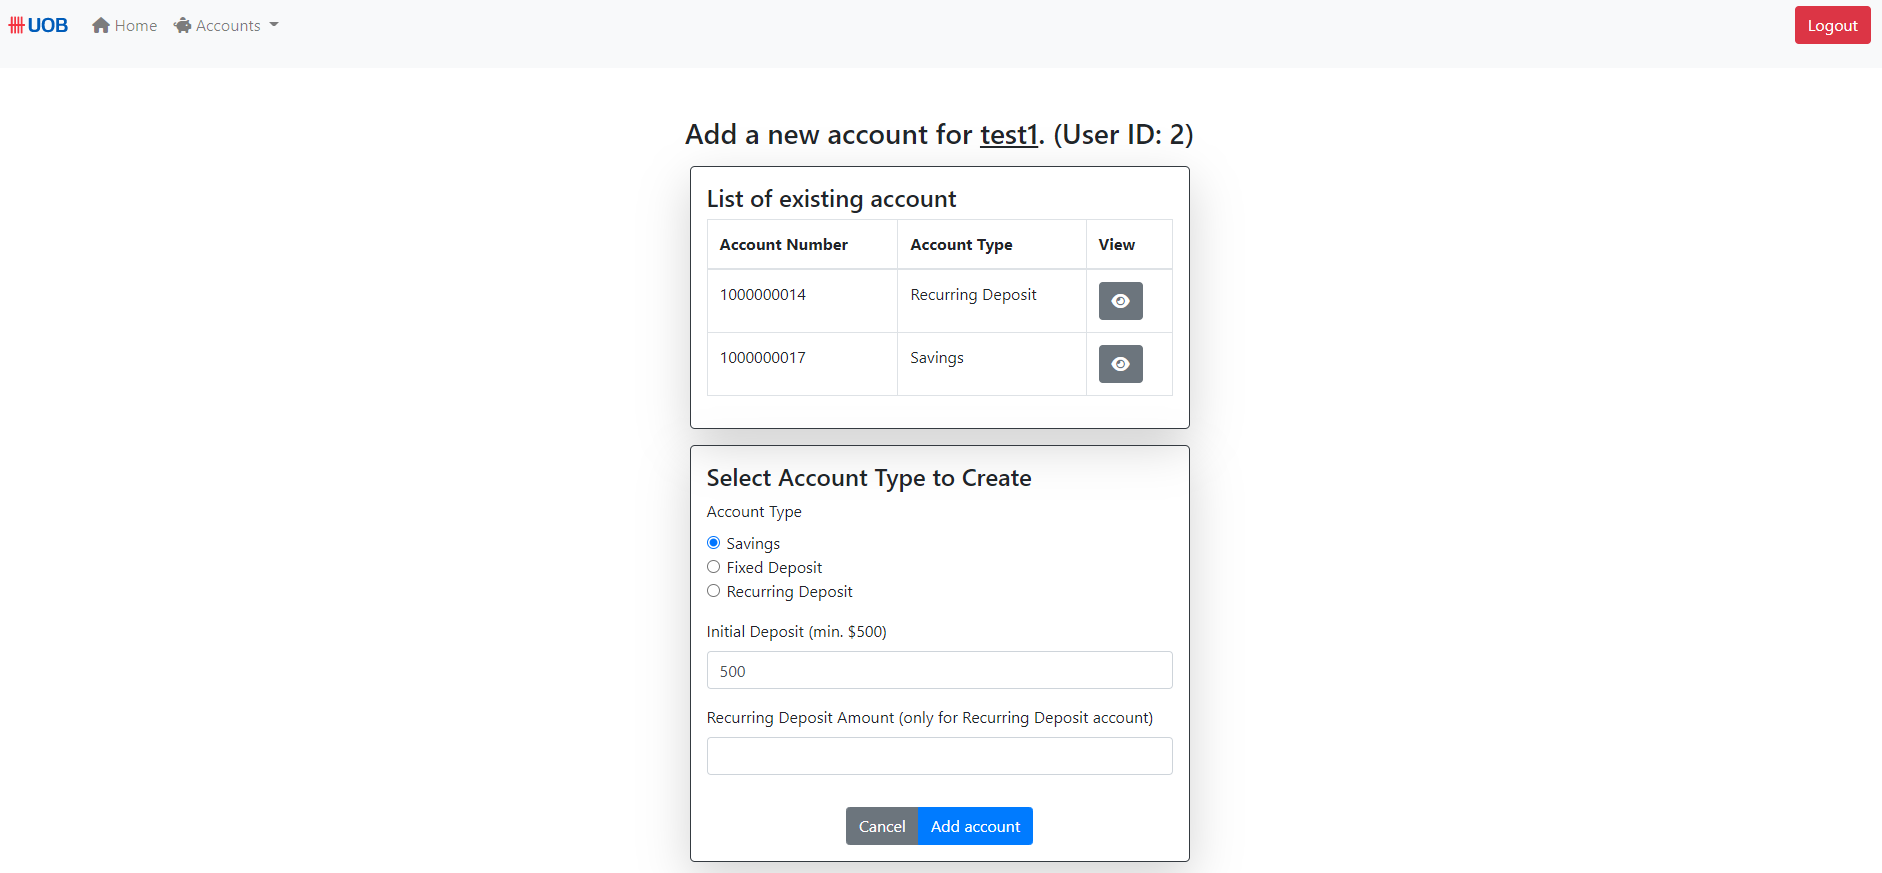
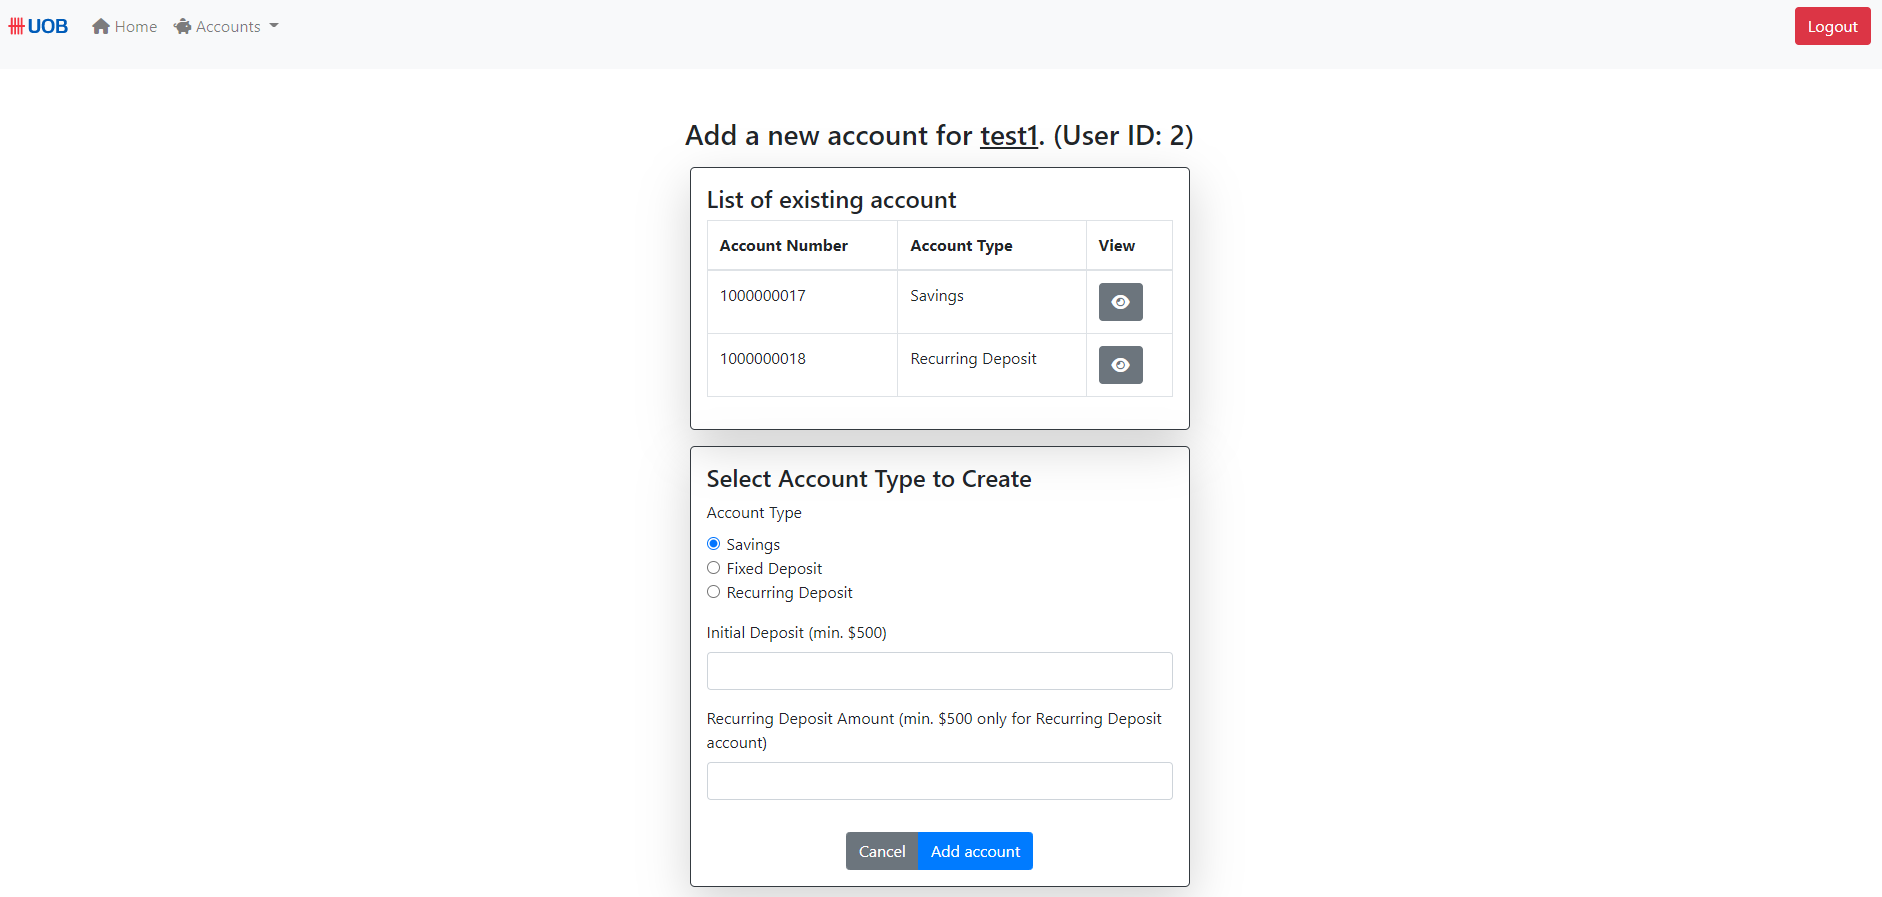
Updated illustration

diff --git a/src/main/resources/templates/addAccount.html b/src/main/resources/templates/addAccount.html
@@ -63,7 +63,7 @@
 					<p class="alert alert-danger" role="alert"
 						th:if="${msg}=='recurringError'">Error: For Recurring Deposit
 						Account, minimum initial deposit is $500 and "Recurring Deposit
-						Amount" value must be more than $0</p>
+						Amount" value must be more than $500</p>
 					<div class="form-group">
 						<label>Account Type</label>
 						<div class="form-check">
@@ -91,7 +91,7 @@
 					</div>
 					<div class="form-group">
 						<label for="inputRecurringDeposit">Recurring Deposit
-							Amount (only for Recurring Deposit account)</label> <input type="number"
+							Amount (min. $500 only for Recurring Deposit account)</label> <input type="number"
 							class="form-control" id="inputRecurringDeposit"
 							name="recurringDeposit">
 					</div>

diff --git a/src/main/java/com/uob/springonlinebanking/controllers/AccountController.java b/src/main/java/com/uob/springonlinebanking/controllers/AccountController.java
@@ -108,7 +108,7 @@ public class AccountController {
 			}
 		} else if (accountType.equalsIgnoreCase("Recurring Deposit")) {
 
-			if (balance >= 500 && tmpRecurringDeposit > 0.0) {
+			if (balance >= 500 && tmpRecurringDeposit >= 500.0) {
 				Accounts newAccount = new Accounts(accountType, balance, tmpRecurringDeposit, userExisting, false,
 						interestRate, LocalDate.now());
 				accountRepo.save(newAccount); // save to account repository
@@ -183,7 +183,7 @@ public class AccountController {
 		LocalDate today = LocalDate.now();
 		LocalDate openDay = acct.getInitiationDate();
 
-		double diffMonths = ChronoUnit.MONTHS.between(openDay, today); // calculate the months between openDate and
+		double diffMonths = ChronoUnit.MONTHS.between(openDay, today); // calculate the months between openDate and todayDate
 
 		// calculate maturity date
 		LocalDate maturityDate = ChronoUnit.YEARS.addTo(acct.getInitiationDate(), 1); // how to dd-mm-yyyy
@@ -210,7 +210,7 @@ public class AccountController {
 			if (diffMonths == 0) {
 				totalBalance = balance;
 			} else {
-				double balanceWithRecurringDeposit = balance + (acct.getRecurringDeposit() * diffMonths);
+				double balanceWithRecurringDeposit = (acct.getRecurringDeposit() * diffMonths);
 				totalBalance = getTotalBalanceRecurring(balance, acctInterestRate, 12.0, diffMonths,
 						acct.getRecurringDeposit());
 				earnedInt = totalBalance - balanceWithRecurringDeposit;
@@ -255,11 +255,8 @@ public class AccountController {
 
 	public Double getTotalBalanceRecurring(double principal, double interestRate, double compoundedNumOfTime,
 			double numOfMonths, double contribution) {
-		if (principal == 0.0) {
-			return 0.0;
-		}
 		if (numOfMonths == 0.0) {
-			return principal;
+			return principal - contribution;
 		}
 		return getTotalBalanceRecurring(principal * (1 + interestRate / compoundedNumOfTime) + contribution,
 				interestRate, compoundedNumOfTime, numOfMonths - 1, contribution);

diff --git a/README.md b/README.md
@@ -90,6 +90,8 @@ Go to MySQL Workbench
 
 ![Application Image](https://github.com/wjlingg/springonlinebanking/blob/main/src/main/resources/static/images/processviewaccount.png)
 
+![Application Image](https://github.com/wjlingg/springonlinebanking/blob/main/src/main/resources/static/images/acctype.jpg)
+
 - A drop down menu has been implemented for users to view the various accounts they have
 
 - When Account Id is selected, it gets the User's Account and Transaction Details from the database and displays it in a table
